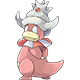
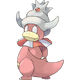
Added King UU's mentor profile+ some minor edits with other profiles.
(ID: scms-u-hair_bail_arithmetic)

diff --git a/old-scms-content/mentorship/profiles.html b/old-scms-content/mentorship/profiles.html
@@ -103,7 +103,7 @@ Mentor Profiles
         <h2>Antemortem</h2>
         <hr class="separator"></hr>
         <p>
-            <strong>Timezone:</strong> CST (GMT -6)<br />
+            <strong>Timezone:</strong> GMT -6<br />
             <strong>Language:</strong> English<br />
             <strong>Content Areas:</strong><span class="areas"> Pokemon Showdown!, The Player, Little Cup<br />
             <strong>Well-known Contribution:</strong> Has contributed multiple articles to and is Moderator of The Player, writes articles for The Smog, writes HTML for The Competitor, and is a Moderator on Pokemon Showdown!<br />
@@ -194,7 +194,7 @@ Mentor Profiles
         <hr class="separator"></hr>
         <p>
             <strong>Timezone:</strong> GMT -6<br />
-            <strong>Language:</strong> English and Spanish<br />
+            <strong>Language:</strong> English, Spanish<br />
             <strong>Content Areas:</strong><span class="areas"> Create-A-Pokemon Project, The Smog, Overused, Orange Islands, Suggestion Box, Pokemon Showdown!</span><br />
             <strong>Well-known Contribution:</strong> He created this Mentorship Program! He's also the guy who keeps the <a href="/cap/">CAP site</a> up to date and formerly coordinated artists for <a href="/smog/">The Smog</a>.<br />
             <strong>Hobbies:</strong> Piano performance, vocal conducting, water sports, Paper Mario, studying academically, throwing pots, and CURLING.<br />
@@ -721,6 +721,21 @@ Mentor Profiles
             <strong>Well-known Contribution:</strong> OU QC Leader, has written lots of analyses.<br />
             <strong>Hobbies:</strong> He plays 3 instruments (trumpet, violin, and piano) and practices them often. He also runs XC and track. Otherwise he spends an inane amount of time on Smogon.<br />
             <strong>Interesting Fact:</strong> Until approximately 6 months ago, he thought "separate" was spelt "seperate".<br />
+        </p>
+    </div>
+    
+    <div class="profile">
+        <img src="/mentorship/slowking.png" alt="" />
+        <div class="button"><a href="/forums/members/king-uu.222534/">profile</a></div>
+        <h2>King UU</h2>
+        <hr class="separator"></hr>
+        <p>
+            <strong>Timezone:</strong> GMT -5<br />
+            <strong>Language:</strong> English, White Russian<br />
+            <strong>Content Areas:</strong><span class="areas"> Underused, Battling 101</span><br />
+            <strong>Well-known Contribution:</strong> UU Tutouring, Integration of PS!/Smogon UU, PS! UU Room Owner.<br />
+            <strong>Hobbies:</strong> Philosophy, music, theatre, debate/discussion, snuggling, video games, hangin' out.<br />
+            <strong>Interesting Fact:</strong> I originally made this my account name in order to get noticed in the PS! Underused chat room.<br />
         </p>
     </div>
     
